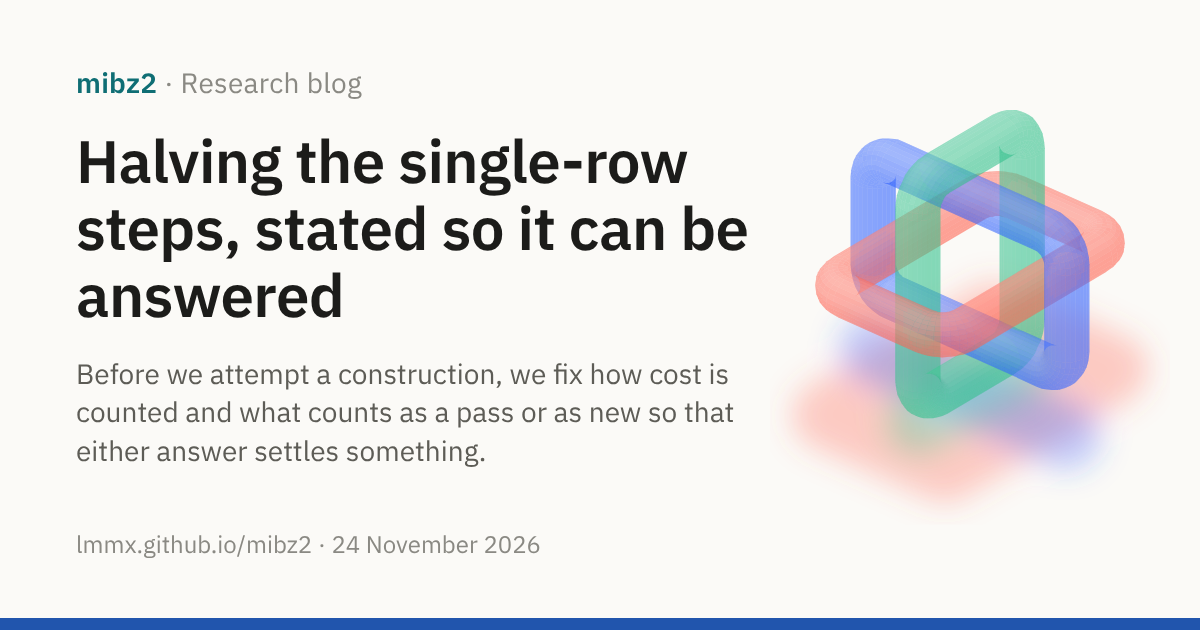
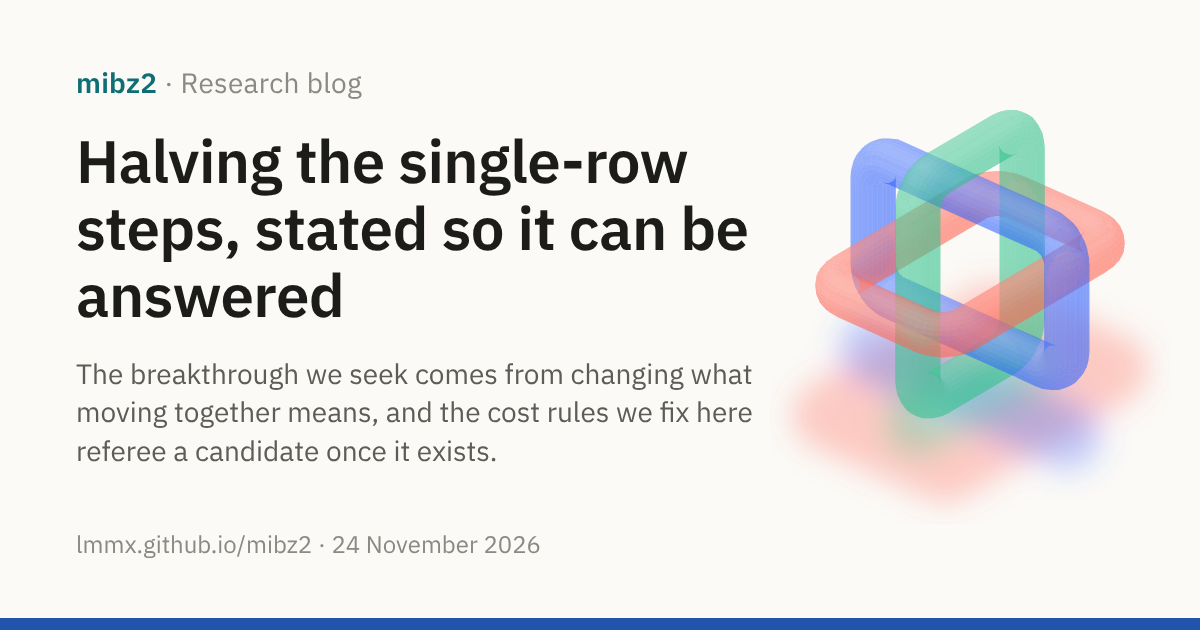
blog(sequel): lead with changing what moves together; the cost rules referee, not the order of work
Louis settled the order (journal §34, ESSENCE.md at 33ee1f60f): Rauzy–Veech was not found by
counting machine cost; the generative step is contraction along composition, generalised by
changing what "moving together" means; the cost rules are the referee, applied once a candidate
exists. The post's "spec, then bridge, then construction" ending is replaced.

- Opening and dek lead with that framing; the restated target is its referee half.
- New §2, "Where the breakthrough comes from": the walk→induction invariant in two parts, why G1
  does not close other senses of moving together, Louis's words verbatim, the three example
  directions (along the text; up to relabelling; a recurrence among the induction's steps, the
  Pell rule). The failure to avoid is evidenced from the cycle-5 critique (aff4172ec): arches at
  0.366·h₁ only on synthetic hex and with a third pass, 3.18–9.03·h₁ on the six real blocks,
  record 110's single sweep at 0.412·h₁, hidden LF walks, an oracle read of the true text, and
  SA-IS. Re-contracting the left-over cycle is list ranking (the 18 November synthesis).
- §5 no longer says the bridge comes first; the yardstick is still fixed before judging.
- §7 ends on the order that follows: a new sense of moving together first, then the referee and
  the supplied test; earlier attempts not banned but searched and cited, in Louis's words.
- Sources gain ESSENCE.md and journal §34.
[…]

Changed region(s): [[0.0617, 0.573, 0.6475, 0.754]]

diff --git a/docs/journal/2026-11-24-next-step-source.md b/docs/journal/2026-11-24-next-step-source.md
@@ -60,3 +60,112 @@ A "no" answer would have to rule out every allowed decoder, not just the ones we
 ## What happens next
 
 A reviewer is reading all three answers side by side and checking any disputed points against our records. Then I'll write up one agreed statement of the problem, and bring you only the choices that need your decision, in plain terms. The next pass, which actually attempts a construction, starts from that statement.
+
+---
+
+# Part 2: Louis's chat with the Coordinator (24 November 2026, evening)
+
+Recorded verbatim as Louis pasted it ("more material from a chat with coordinator:"). Louis's
+own words are the quoted (">") paragraphs; the rest is the Coordinator's replies. The settled
+principle is at `docs/journal/2026-11-24-algorithm-level/ESSENCE.md` and journal §34 (33ee1f60f
+on `docs/journal-algorithm-level`).
+
+> I'm a little concerned that you're kind of over-indexing on, machine instructions and stuff. Well, that's important. To my mind, we could have come up with Rousey-Veach induction without overly concerning ourselves with machine cost, right? I'm not sure. The whole Hilbert 24th problem thing was that we should be able to see how we went from the first algorithm version with the traversal to the induction version and kind of see what was invariant, and we said this ourselves, it was contraction along compose, right? To my mind, I thought this meant that we'd kind of established this sort of direction of travel here, which we were going to try and generalize.
+
+You're right, and that's a fair correction. Nobody found Rauzy–Veech induction by counting memory reads. They saw that neighbouring rows in the same run take the same step, so their steps can be composed once and shared. The cost saving followed from that. The council answers pulled us towards bookkeeping because I asked them to tidy up the definitions, and record 108 had just shown we were fooling ourselves about costs. But I let a referee's job turn into the whole programme. The cost rules should be the referee: they decide whether a find is real. They don't produce the find.
+
+**What the invariant actually says.** Your Hilbert's 24th framing was to look at two proofs of the same thing, the walk and the induction, and ask what carries over between them. What we named was *contraction along composition*:
+- The walk takes one step at a time: row, next row, next row.
+- The induction notices that a whole stretch of rows takes the same step. So it composes those steps once, treats the stretch as a single unit, and repeats on the smaller system that's left.
+
+The invariant has two parts:
+1. **A notion of "these move together".** For Rauzy–Veech, that's adjacent rows holding the same byte.
+2. **A rule for composing what moves together** and recursing on what remains.
+
+**Where it gets stuck, and why that points somewhere.** Lone rows don't move together with their neighbours, so in the way rows are ordered, they have nothing to contract with. That is exactly what the proved floor says. So the generalisation isn't "contract harder". It's "find a different sense in which things move together". There are a few directions, each a real generalisation of the same move:
+- **Contract in the text's own order, not the row order.** Copy plans do this. A repeated stretch of text is a run in the other direction. It's the one idea that has survived every review so far.
+- **"Moves together" up to a fixed relabelling, not exact equality.** Two stretches whose steps differ only by a consistent shift or substitution could still be composed once.
+- **Contract the system of contractions itself:** look for a recurrence among the induction's own steps. This is the doomslide Pell idea, where a rule generates new instances instead of an oracle handing them over one by one.
+
+One caution from the records: the most naive version, contracting the left-over cycle again, turned out to be a known technique for linked lists (list ranking). The generalisation has to change what "moves together" means, not just repeat the same contraction.
+
+**What I'd change.** At the moment MONODROMY's next item is mostly the cost rules and the bridge proof. I'd rebalance it:
+- **First, the generative work:** state walk → induction exactly as one instance of "contraction along composition", with the notion of "moves together" as a free parameter. Then list the alternatives for that notion, each with what it would contract on random-looking content.
+- **Second, and kept small, the referee:** fix the cost rules once, so any candidate can be checked quickly afterwards.
+
+The fresh Neon-model pass would get the same framing, with each candidate presented as a new answer to "what moves together?".
+
+Shall I make that change now? I'd amend the instructions entry and point MONODROMY at it. Or do you want to steer which of the three directions leads first?
+
+---
+
+The review of the Antigravity chat running the Neon role is back. Its headline result doesn't hold up.
+
+**What it claimed.** It said copy plans and "arches" decode at about a third of a unit per lone row, built for free from the scrambled column.
+
+**What the reviewer found.** I checked the key point myself.
+- **The one-third figure comes only from synthetic random hex.** On your six real blocks, the arches cost 3 to 9 units per lone row, so worse than today's decoder, not better.
+- **On that same synthetic hex, MONODROMY's earlier single scan already gets 0.41.** The arches buy about 11% for an extra pass over the data, and the target allows only two passes.
+- **The other version's "free build" isn't free.** It quietly walks the slow pointer chain row by row to build its pieces. I confirmed this in its script. One of the copy-plan variants cheats more directly: it reads the true decoded text.
+- **The arches aren't new.** They're MONODROMY's earlier contraction with a mirror-image second pass. Cutting at the low points and sweeping twice is a known technique in suffix-array construction, called SA-IS, and our 18 November investigation already had it.
+
+The critique is in the journal (aff4172e), and the agents have been told in the shared instructions file (108f8c5f).
+
+**This supports your point.** Both Antigravity chats failed the same way:
+- the Carbon role's four objects;
+- this chat's arches and copy plans.
+
+Every candidate contracts chains of the same kind as before. Each uses the same notion of "these rows move together" and squeezes it harder, then pays for it with extra passes or a hidden walk. None of them changed what "moving together" means. That's the step the walk-to-induction comparison points to, and nobody took it. More attention to accounting wouldn't have found it either.
+
+I'm still waiting on your answer from before: should I rebalance MONODROMY's next task and the fresh Neon-model prompt around "what else can move together?"? Here's the generative work first and the cost rules kept small as the referee. And do you want to pick which direction leads?
+- **Contract along the text instead of along the rows.** Copy plans are the start of this.
+- **"Move together up to a consistent relabelling".**
+- **Look for a recurrence in the induction's own steps.** This is the Pell-rule idea.
+
+---
+
+I've published the writer's sequel, "Halving the single-row steps, stated so it can be answered" (#834). It's merged at the head the writer reported, with the merge checks passing before and after. The site will update when the current deploy finishes.
+
+**What the post covers:**
+- An earlier finding (record 108): the old target could be met or missed just by changing how costs are counted.
+- Your choice that the yardstick is real machine cost.
+- Plain definitions of the four things counted:
+  - unpredictable memory reads;
+  - how long the chain of dependent reads is;
+  - passes over the data;
+  - memory in use.
+- The question that has to be answered, and what a "no" would need to rule out.
+
+**One thing that clashes with what you just said.** The post ends on a fixed order of work: write down the rules, prove the bridge, then construct. That's the bookkeeping-first order you've just questioned. I've told the writer it's coming, but not to change anything until you decide. The revision will then lead with your framing: the step from the walk to the induction is contraction along composition, and the way forward is to change what "moves together" means, with the cost rules acting as referee.
+
+**Two smaller points from the writer:**
+- **The Mario attribution.** The previous post credits "this project" with the working-backwards move, but the repository only proves the narrower, conditional "no A press, no flight" result. The council comparison confirmed that, so I've told the writer to correct it directly on the site.
+- **Using output space as scratch.** The writer left this out of the post. That's right: it was only one council member's suggestion, and we haven't adopted it.
+
+Still open: your answer on refocusing the agents around "what else can move together?", and which of the three directions should lead.
+
+---
+
+> Okay, yeah, I'm glad you've got a good record of this, because this is really important. I think you've also stated that really nicely, so I'm going to try and record this in, some writing as well. I just don't want to lose this essence, because it's really powerful and we need to retain it. Otherwise we're just going to keep going back down to performance tuning, incremental improvements, partial results. Enough of partial results, we need to do a breakthrough. And when I look at this, what I see is a kind of a looseness of language, a generalization, work smarter, not harder, rather. Find a different sense for something that can occur. It requires a kind of ability to think flexibly, laterally. And yeah, the fact that we've tried so many things already doesn't mean that that's, the set we're limited to. It just means that we don't have to actually explore some things that might show up this way because they've already been explored and found to be lacking in a particular way. And even there, it's not necessarily the case that an idea we tried has to be disallowed because it's already been tried, but rather that we can perhaps have, think again and redouble our efforts if we think there might be something in it. But yeah, we shouldn't, feign surprise at novelty if the thing turns out to already exist.
+
+I've written it down so it can't get lost, and in a form the agents can't skip.
+
+**Where it's recorded:**
+- **A one-page statement:** `docs/journal/2026-11-24-algorithm-level/ESSENCE.md` (on the journal branch, 33ee1f60). It's in plain language, quotes you, and is now the starting page for every brief, prompt and review. It says:
+  - **The aim** is a breakthrough, not partial results.
+  - **Where breakthroughs come from:** the step from the walk to the induction is *contraction along composition*. You notice what moves together, compose it once, and recurse on what's left. The way forward is to **change what "moving together" means**: looser language, lateral thinking, working smarter rather than harder. Squeezing the same notion harder is what both Antigravity chats did today, and it failed.
+  - **The cost rules are the referee.** They decide whether a find is real once it exists. They don't generate candidates or set the order of work.
+  - **Earlier attempts aren't banned.** You can go back to one and push harder if there's something in it. But first search the records, cite where it was tried, and say either "new" or "revisiting this because that was missed". Never claim novelty for something that already exists. And having tried a lot doesn't mean we're limited to what's been tried.
+- **The journal:** a new section 34 has your words verbatim and replaces the bookkeeping-first order from section 33. Your choice of real machine cost still stands, but now as the referee.
+
+**What the agents have been told:**
+- **MONODROMY** now has a generative task, replacing the bridge-first one. It's to:
+  - state the walk-to-induction step exactly, as one case of a general recipe: something that moves together, a way to compose it, and recursing on the rest;
+  - find other senses in which lone rows *do* move together with something, beyond the three examples, which aren't a closed list;
+  - say what each sense would contract on random-looking content, and which one it would pursue;
+  - keep the cost rules small, just enough to referee.
+
+  I sent it a short pointer to the new instructions.
+- **The blog writer** is to revise the post published earlier today so it leads with this framing, and to drop its "rules, then bridge, then construction" ending. I've asked it to keep your words verbatim, since you're writing about this too. It will push once the current site deploy has finished.
+
+When you're ready, I'll write the prompt for the fresh Neon-model chat in Antigravity. It will open with this page and ask it to propose new senses of "moving together", not to tune the old one.

diff --git a/docs/site/blog/2026-11-24-the-target-stated-so-it-can-be-answered.md b/docs/site/blog/2026-11-24-the-target-stated-so-it-can-be-answered.md
@@ -1,7 +1,7 @@
 ---
 title: "Halving the single-row steps, stated so it can be answered"
 image: assets/social/blog-2026-11-24-the-target-stated-so-it-can-be-answered.png
-description: "Before we attempt a construction, we fix how cost is counted and what counts as a pass or as new so that either answer settles something."
+description: "The breakthrough we seek comes from changing what moving together means, and the cost rules we fix here referee a candidate once it exists."
 ---
 
 <div class="post-hero" markdown>
@@ -13,10 +13,10 @@ description: "Before we attempt a construction, we fix how cost is counted and w
 
 # Halving the single-row steps, stated so it can be answered
 
-Before we attempt a construction, we fix how cost is counted and what counts as a pass or as new so that either answer settles something.
+The breakthrough we seek comes from changing what moving together means, and the cost rules we fix here referee a candidate once it exists.
 {: .post-dek }
 
-24 November 2026 · 9 min read · [Meta](#6-what-comes-next)
+24 November 2026 · 10 min read · [Meta](#7-what-comes-next)
 {: .post-meta }
 
 </div>
@@ -27,13 +27,16 @@ Before we attempt a construction, we fix how cost is counted and what counts as 
 
 [Our last post](2026-11-24-halving-the-single-row-steps.md) set a binary target: decode every
 block with at most half an event per width-1 row, which no decoder in our current family can do,
-so that only a new algorithm could meet it. Before building one, we had to settle what meeting it
-would mean, because the target as written turned out to be decided by a bookkeeping convention
-rather than by anything in the data. This post restates the problem in terms a machine can be held
-to. The yardstick is now real machine cost on a declared model of the machine. The old family's
-floor has to be carried into that yardstick by a proof we have not yet written, the *bridge*. And
-"new" is judged against the specific method being escaped, with a measurable gap in cost. The
-bridge comes first; only then is any construction judged.
+so that only a new algorithm could meet it. This post is about how such an algorithm is to be
+found and how it will be judged once it is, two questions that must not be confused. The finding
+comes from the step that took us from the walk to Rauzy–Veech induction, contraction along
+composition: rows that move together have their steps composed once and shared. Our proved floor
+says only that width-1 rows have nothing to move together with *in that sense*, so the way forward,
+in Louis's words, is to "find a different sense for something that can occur": to change what
+moving together means. The judging is the other half. The target as first written turned out to
+be decided by a bookkeeping convention, so we have restated it in real machine cost on a declared
+model, with the old floor to be carried across by a proof, the *bridge*. Those rules are the
+referee. They decide whether a find is real once a candidate exists; they do not produce one.
 
 ## 1. Where the last post left us
 
@@ -52,7 +55,44 @@ The last post's terms are used here without being explained again:
   second, and the supplied test that came of it
   ([§2](2026-11-24-halving-the-single-row-steps.md#2-four-reframings-of-the-search)).
 
-## 2. The snag: a convention decided the answer
+## 2. Where the breakthrough comes from
+
+Rauzy–Veech induction was not found by counting machine cost. It came from seeing that a whole
+stretch of rows takes the same step, so that their steps can be composed once and shared.
+Comparing the two algorithms, the walk and the induction, and asking what carries over between
+them, which is the question the last post took from [Hilbert's 24th problem](https://en.wikipedia.org/wiki/Hilbert%27s_twenty-fourth_problem){ .il-ref }, gives an answer in two
+parts:
+
+1. **a notion of "these move together",** which for Rauzy–Veech is adjacent rows holding the same
+   byte;
+2. **a rule for composing what moves together,** and then recursing on what is left.
+
+G1 says that width-1 rows have nothing to move together with in that first sense. It does not say
+that they have nothing to move together with in any sense. Contracting harder in the same sense is
+the failure to avoid, and our most recent rounds of candidates show what it looks like. The best of
+them, "arches" cut at the low points of the map and swept twice, reached 0.366 of an event per
+width-1 row, but only on synthetic random hex and only with a third pass; on our six real blocks
+the same construction cost 3.18 to 9.03 per width-1 row, and a single sweep we already had gave
+0.412 on the same hex. Other builds that looked free walked the map row by row inside them, and one
+read the true decoded text. The arches themselves turned out to be a known suffix-array technique,
+SA-IS ([the review](https://github.com/lmmx/mibz2/blob/aff4172ec770b24fecb934d8eee7b18f30cbb047/docs/journal/2026-11-24-algorithm-level/neon-cycle5-critique.md)). Each candidate squeezed the same notion of moving together further,
+and paid for it with an extra pass or a hidden walk. Nor does contracting the left-over cycle again
+escape: placing rows along that cycle is list ranking, a known technique for linked lists with
+known costs ([our synthesis](https://github.com/lmmx/mibz2/blob/cdeef65aba3b5ebad758cf4f5d169f0534bf80ab/docs/journal/monodromy/2026-11-18-synthesis.md)). The way forward is to change what moving together means. In Louis's words: "what I see is a kind of a looseness of language, a
+generalization, work smarter, not harder, rather. Find a different sense for something that can
+occur. It requires a kind of ability to think flexibly, laterally."
+
+Some directions follow, offered as examples rather than a closed list
+([the record of this principle](https://github.com/lmmx/mibz2/blob/33ee1f60fc829236fc4ea6780f1971ebc0ea0ed5/docs/journal/2026-11-24-algorithm-level/ESSENCE.md)):
+
+- **Contract along the text, not along the rows.** A repeated stretch of text is a run in the
+  other direction, and copy plans are the start of it.
+- **Move together up to a consistent relabelling,** rather than by exact equality.
+- **Find a recurrence among the induction's own steps,** as the Pell rule in the last post
+  ([§2](2026-11-24-halving-the-single-row-steps.md#2-four-reframings-of-the-search)) generates new
+  triangles where an oracle could only hand them over.
+
+## 3. The snag: a convention decided the answer
 
 The decisive gaps in the target were in its accounting. Every known route that beats the floor does
 so with a *build pass*: a sweep over all the block's [run records](2026-11-10-rauzy-veech-reconstruction.md) that composes facts in bulk, as
@@ -73,7 +113,7 @@ budget, and not by any fact about the column. A target that a choice of conventi
 defeat cannot tell a new algorithm from a relabelled old one, which was the whole reason for
 setting it.
 
-## 3. Two yardsticks, kept apart
+## 4. Two yardsticks, kept apart
 
 An [outside review](https://github.com/lmmx/mibz2/blob/a12492459dc8e9fb26a8ca4fc0dd36a3392b4769/docs/journal/2026-11-24-algorithm-level/council/chatgpt.md)
 of the problem, one of three [compared side by side](https://github.com/lmmx/mibz2/blob/18c74a670b70304c501078b0cef6ed9be706c4f6/docs/journal/2026-11-24-algorithm-level/council/COMPARISON.md),
@@ -114,7 +154,7 @@ wrong one. A decoder must write every byte of its output, so a target stated in 
 impossible for a trivial reason: the output alone costs n, and n is never less than h₁. The review
 pointed out that trap, and the adopted yardstick counts accesses instead.</aside>
 
-## 4. The bridge: why the floor has to be carried across
+## 5. The bridge: why the floor has to be carried across
 
 In the machine yardstick, no floor of h₁ is yet proved for anything. G1 bounds a sum of charges
 in the calculus, so it says nothing directly about Q. To claim that a candidate goes below the
@@ -123,8 +163,8 @@ family, executed on the declared machine, pays at least a fixed multiple of its 
 in Q. Without it, "below the floor" would compare a machine count with a calculus bound, which is
 not a theorem at all.
 
-The bridge also has to come first for a plainer reason. The yardstick must be fixed before any
-candidate is judged; otherwise a convenient one can be chosen after the fact. If the bridge
+The yardstick also has to be fixed before any candidate is judged; otherwise a convenient one can
+be chosen after the fact. If the bridge
 fails for some way of implementing the old family, that implementation is not a counterexample
 to G1. It is a candidate escape, and it gets named.
 
@@ -140,7 +180,7 @@ Two more terms needed the same treatment:
   pass. Against today's floor it is no escape at all, because G1's family already contains it.
   A definition that asked our own historical step to beat h₁ would be testing the wrong floor.
 
-## 5. The question, stated so it can be answered
+## 6. The question, stated so it can be answered
 
 With the rules fixed first (the machine model, the yardstick, the inputs and the budget), the
 question becomes one of existence. Is there a decoder with a new kind of object, a way to build
@@ -170,7 +210,7 @@ theorem still rests on named residual hypotheses; its theorem that the level nee
 not yet started. What we borrow from both is the method, a large claim split into premises that
 are proved one by one, and not the standing of a finished impossibility proof.</aside>
 
-## 6. What comes next
+## 7. What comes next
 
 The same review found errors in our own records. It listed 21 places where records contradict
 one another, have been superseded, or differ in scope. Among them, the draft negative theorem's list of excluded mechanisms omitted one that
@@ -178,17 +218,25 @@ its own text calls open. One measurement note compared about forty edges against
 width-1 rows in an example with two runs, which cannot be right, since a block never has more
 width-1 rows than runs.
 
-The work now goes in a fixed order. First comes the specification: the instruction set, the rule
-that turns a program's trace into passes, the cursor discipline, and the read-only, write-once and
-working memories. Then the bridge, for the current family, with an explicit constant. Every cost
-from then on is reported as (Q, D, P, S) under that specification, with building the object
-included. Only after that is a construction attempted, and the supplied test, in the Mario manner,
-measures what any candidate's object would buy before anyone pays to build it.
+The order of work follows from the two halves of this post. The search is for a new sense of
+moving together, and a candidate is first an idea of that kind, an object with its own rule of
+composition, before it is a cost. Once one exists, the referee applies: the specification of the
+machine, the bridge for the current family, and the four figures (Q, D, P, S) with building the
+object included. In the Mario manner, the supplied test then measures what the candidate's object
+would buy before anyone pays to build it.
+
+Nor is anything ruled out for having been tried before. Louis again: "it's not necessarily the
+case that an idea we tried has to be disallowed because it's already been tried, but rather that we
+can perhaps have, think again and redouble our efforts if we think there might be something in it.
+But yeah, we shouldn't, feign surprise at novelty if the thing turns out to already exist." Every
+proposal therefore starts by searching our records, and says either that it is new or which earlier
+attempt it revisits, and what that attempt missed.
 
 ---
 
 **Sources:**
 
+- [The essence of the search](https://github.com/lmmx/mibz2/blob/33ee1f60fc829236fc4ea6780f1971ebc0ea0ed5/docs/journal/2026-11-24-algorithm-level/ESSENCE.md), and [Louis's words on it](https://github.com/lmmx/mibz2/blob/33ee1f60fc829236fc4ea6780f1971ebc0ea0ed5/docs/journal/2026-11-24-algorithm-level.md#34-the-essence-restated-change-what-moving-together-means) (journal §34), verbatim.
 - [The charge convention](https://github.com/lmmx/mibz2/blob/8e9b962c5fc94da61e1d47a0868897b7e96ccf0c/docs/journal/monodromy/2026-11-24-charge-convention.md): why the frozen target's answer is set by the charge on a pass and the pass budget.
 - [The problem, stated formally](https://github.com/lmmx/mibz2/blob/303b48c8ff010ba3fd6576d89d6fec2987409f09/docs/journal/monodromy/2026-11-24-council-formulation.md): the machine model, the cost vector (Q, D, P, S) and the conditions for a new basis.
 - [The outside review](https://github.com/lmmx/mibz2/blob/a12492459dc8e9fb26a8ca4fc0dd36a3392b4769/docs/journal/2026-11-24-algorithm-level/council/chatgpt.md), recorded verbatim, including its table of contradictions (§5.2) and its reading of the Mario repository.

diff --git a/docs/site/blog/index.md b/docs/site/blog/index.md
@@ -8,7 +8,7 @@ What mibz2's experiments are finding, and where they go next. The evidence behin
 post is in the [journals](../background/journals.md) and the pull requests they link.
 
 <div class="post-list">
-<a class="post-card" href="2026-11-24-the-target-stated-so-it-can-be-answered.md"><img src="../assets/social/blog-2026-11-24-the-target-stated-so-it-can-be-answered.png" alt="" loading="lazy"><span class="post-card-text"><span class="post-card-date">24 November 2026 · Meta</span><span class="post-card-title">Halving the single-row steps, stated so it can be answered</span><span class="post-card-dek">Before we attempt a construction, we fix how cost is counted and what counts as a pass or as new so that either answer settles something.</span></span></a>
+<a class="post-card" href="2026-11-24-the-target-stated-so-it-can-be-answered.md"><img src="../assets/social/blog-2026-11-24-the-target-stated-so-it-can-be-answered.png" alt="" loading="lazy"><span class="post-card-text"><span class="post-card-date">24 November 2026 · Meta</span><span class="post-card-title">Halving the single-row steps, stated so it can be answered</span><span class="post-card-dek">The breakthrough we seek comes from changing what moving together means, and the cost rules we fix here referee a candidate once it exists.</span></span></a>
 <a class="post-card" href="2026-11-24-halving-the-single-row-steps.md"><img src="../assets/social/blog-2026-11-24-halving-the-single-row-steps.png" alt="" loading="lazy"><span class="post-card-text"><span class="post-card-date">24 November 2026 · Meta</span><span class="post-card-title">Halving the single-row steps: a target only a new algorithm can meet</span><span class="post-card-dek">We now search for a new way to undo bzip2's block sort by forbidding the obvious mechanism and asking whether any exact decoder can do without it.</span></span></a>
 <a class="post-card" href="2026-11-22-decompression-is-the-harder-problem.md"><img src="../assets/social/blog-2026-11-22-decompression-is-the-harder-problem.png" alt="" loading="lazy"><span class="post-card-text"><span class="post-card-date">22 November 2026 · Meta</span><span class="post-card-title">Playing the hand you're dealt: in conversation with Thomas Murphy</span><span class="post-card-dek">A discussion of the mibz2 swarm, and why the Hutter Prize has it backwards: it rewards whoever stacks the deck best, when real data deals you the hand.</span></span></a>
 <a class="post-card" href="2026-11-22-correctness-is-uniform-cost-is-not.md"><img src="../assets/social/blog-2026-11-22-correctness-is-uniform-cost-is-not.png" alt="" loading="lazy"><span class="post-card-text"><span class="post-card-date">22 November 2026 · Research in progress</span><span class="post-card-title">Correctness is uniform, cost is not</span><span class="post-card-dek">Every route in mibz2's bzip2 decoder is exact on every block, but cost varies from block to block and so we hunt for speed in many places.</span></span></a>
